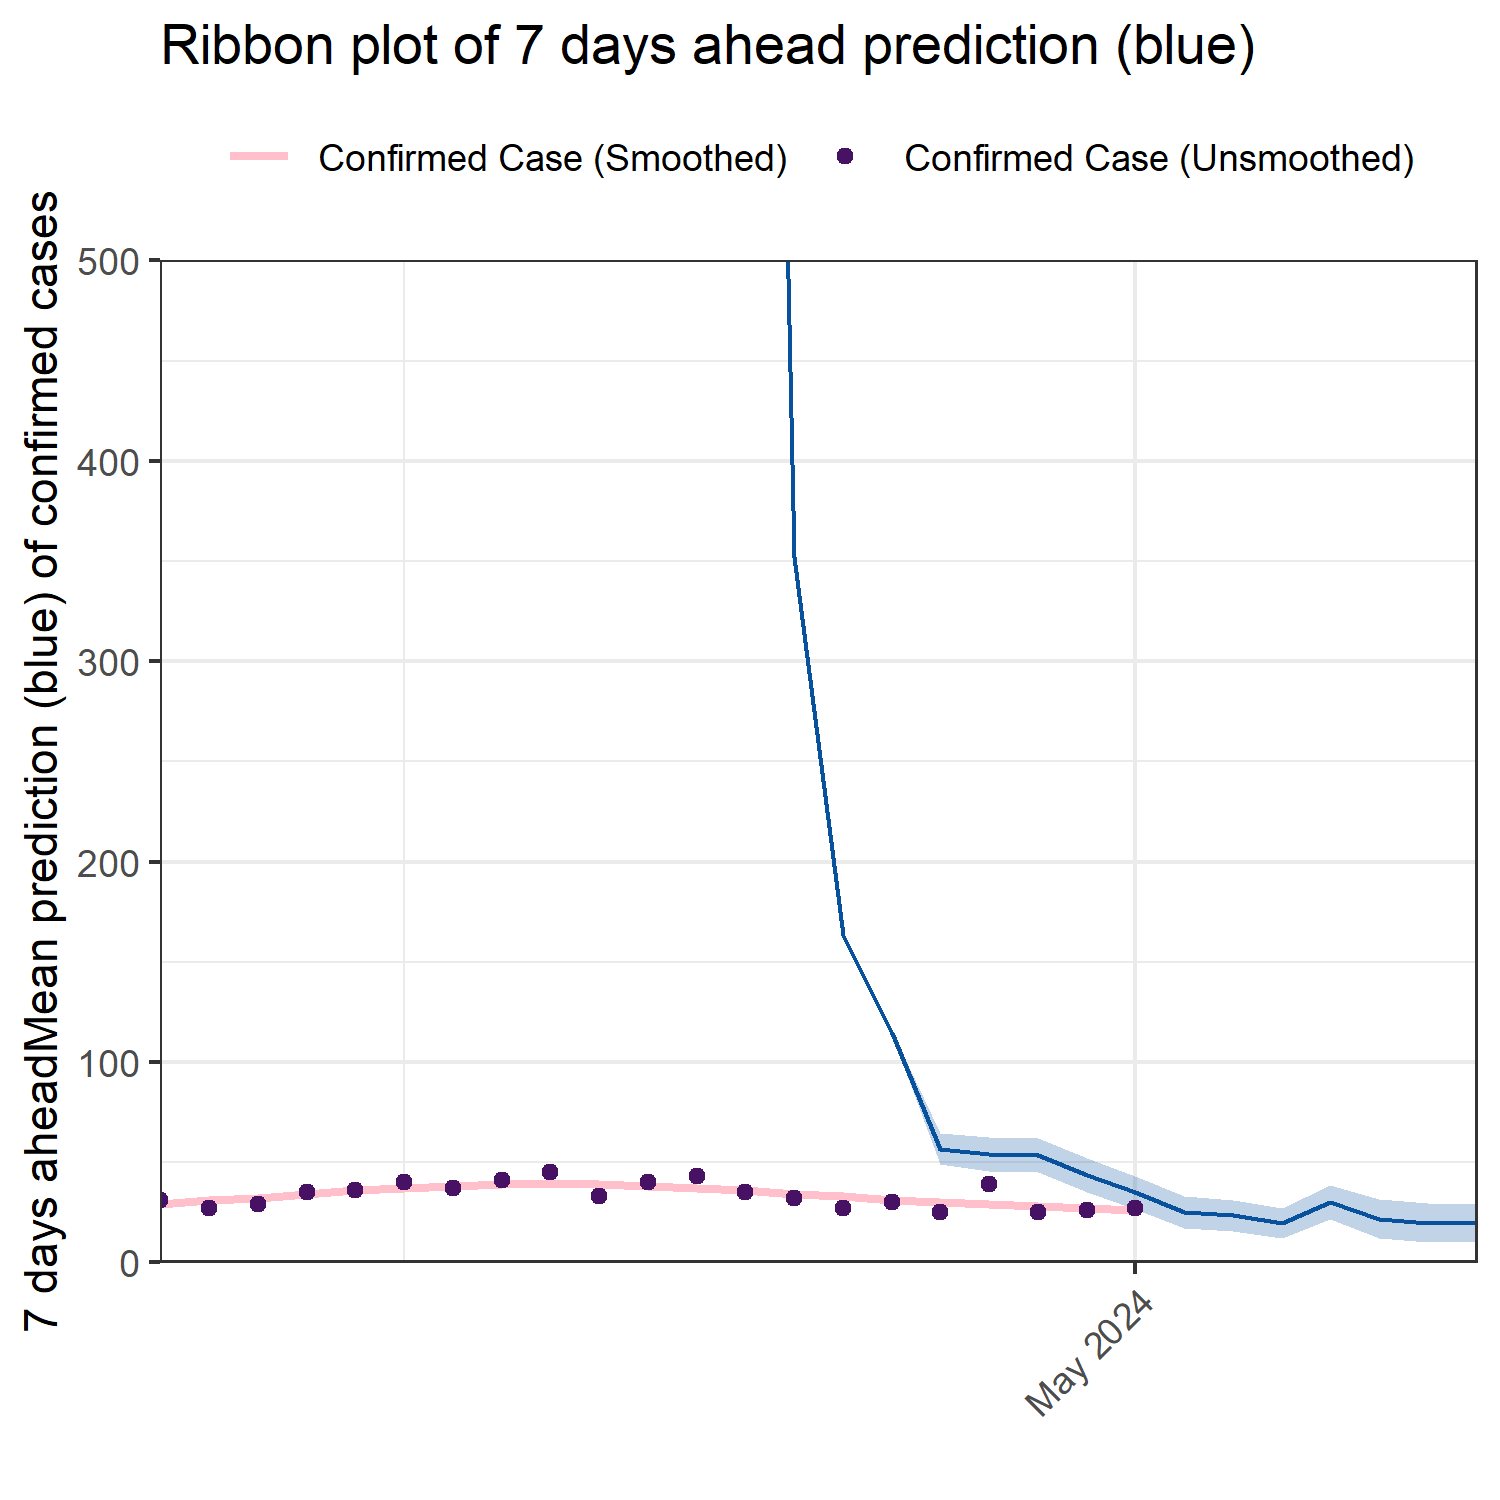
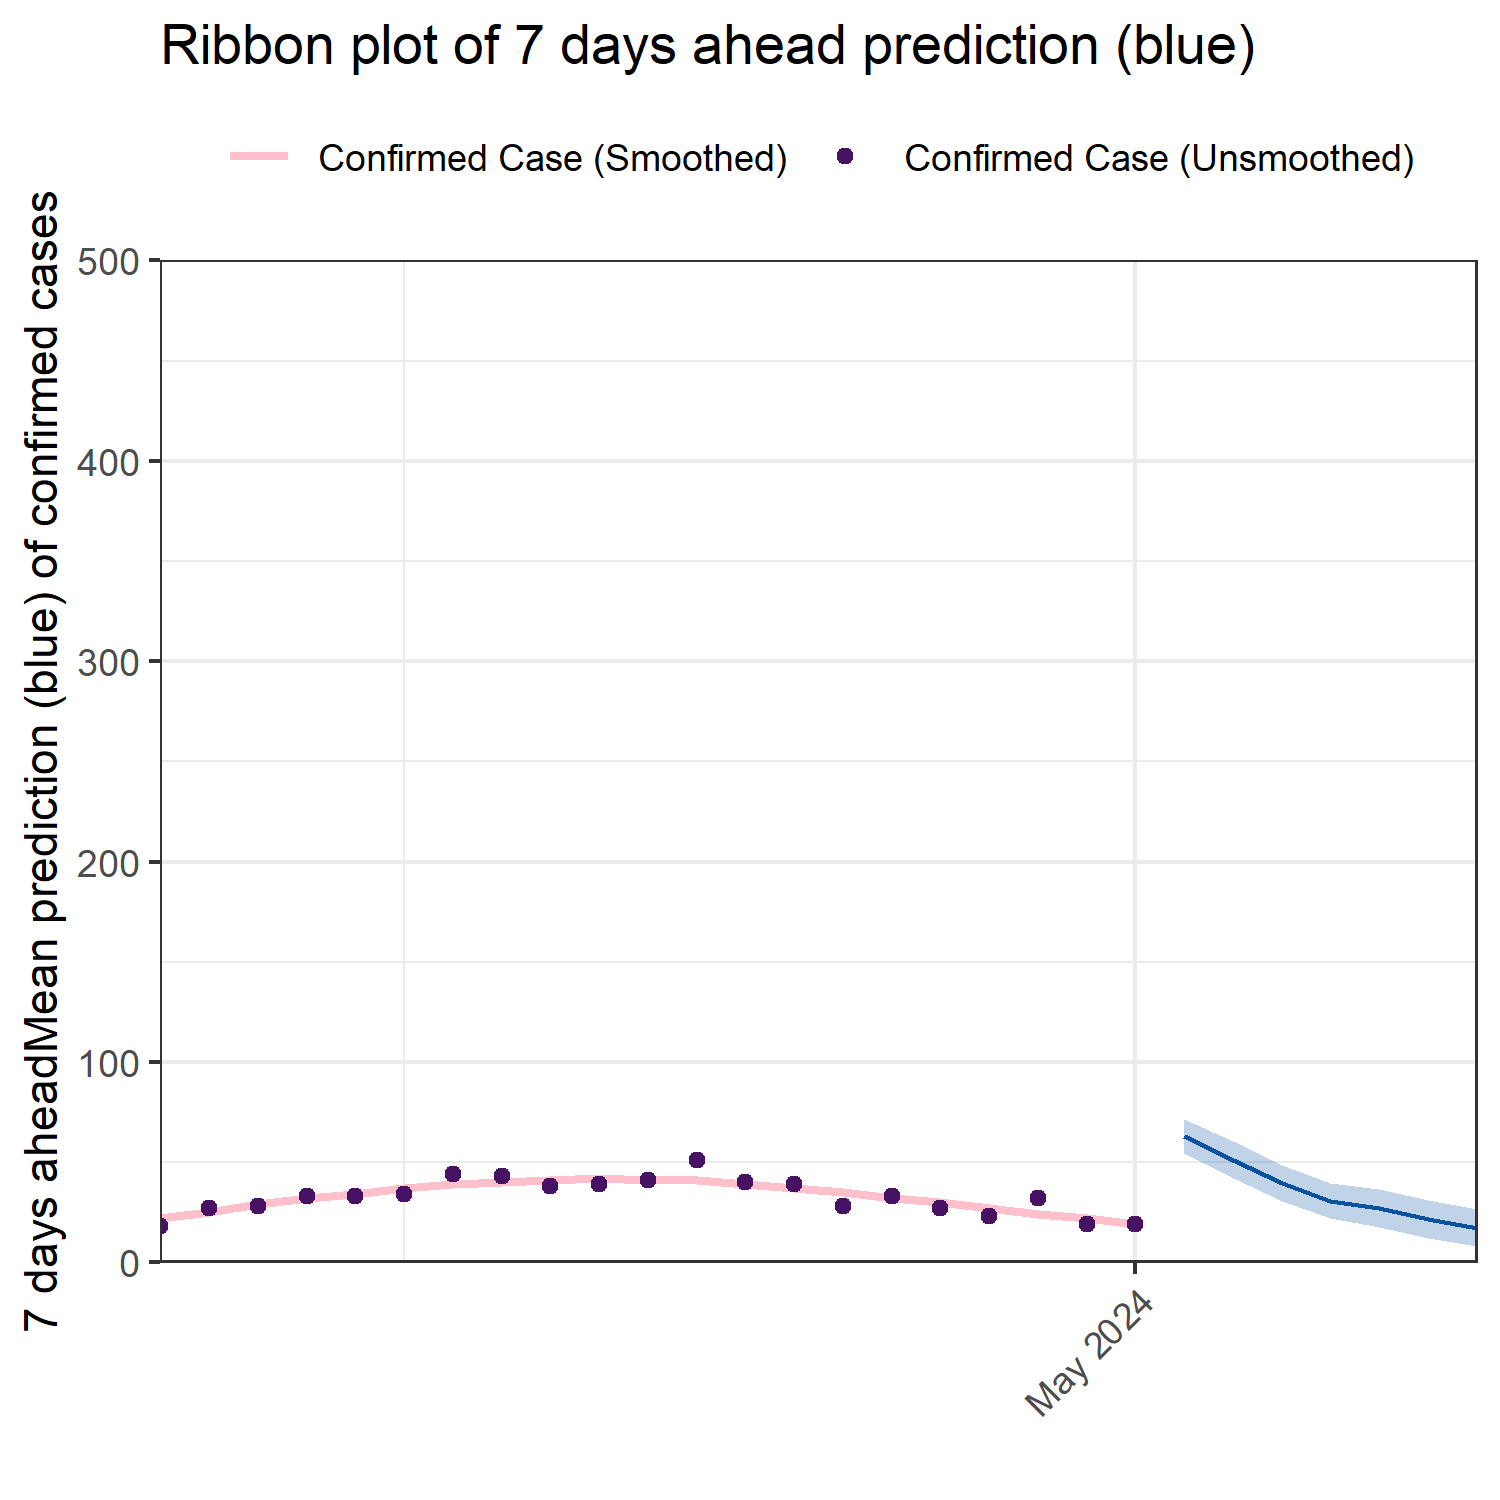
Add min_points and multipler option to forecast_time_period_epiestim I add an option to etiher input min_points or a multiplier to define the minimun number of data points (size of first window) to produce an accurate fit (multiplier*serial_interval).
Because serial interval defaults was defined in the inner functions, and the windows are defined in the outer function, I created an internal helper in utils.R defining all the default values. Then, I called this helper in both outer loop (that defines min_points and windows) and inner loop (that fits data).

Readme.md passed devtools::build_readme()

Fixes #38

diff --git a/README.md b/README.md
@@ -44,11 +44,11 @@ Influenza-A.
 
 ``` r
 library(ViroReportR)
-#> ================================================
-#> Welcome to ViroReportR! 
-#> Please run `pkgdown::build_site(lazy = TRUE)` in your console 
-#> to access documentation on the package website 
-#> ================================================
+#> 
+#> ── ViroReportR ─────────────────────────────────────────────────────────────────
+#> Please run `pkgdown::build_site(lazy = TRUE)` in your console
+#> to access documentation on the package website
+#> ────────────────────────────────────────────────────────────────────────────────
 ```
 
 We will use the simulated data for Influenza A, which is included with
@@ -71,12 +71,12 @@ head(formatted_data)
 #> # A tibble: 6 × 2
 #>   date       confirm
 #>   <date>       <dbl>
-#> 1 2024-04-01      13
-#> 2 2024-04-02       4
-#> 3 2024-04-03      10
-#> 4 2024-04-04       4
-#> 5 2024-04-05      12
-#> 6 2024-04-06      10
+#> 1 2024-04-01      12
+#> 2 2024-04-02       7
+#> 3 2024-04-03      11
+#> 4 2024-04-04      13
+#> 5 2024-04-05      19
+#> 6 2024-04-06      15
 ```
 
 ## Model fitting and forecasting over sliding windows
@@ -121,39 +121,19 @@ the same arguments as the `plot_validation` function above:
 summary(time_period_result_daily, pred_horizon_str = "7 days ahead")
 #> `mutate_if()` ignored the following grouping variables:
 #> • Column `date`
-#> Warning in summary.forecast_time_period(time_period_result_daily,
-#> pred_horizon_str = "7 days ahead"): Prediction percentile intervals do not
-#> cover some data-points in validation fits. Some forecasts may not be reliable
 #> $individual_quantiles
-#> # A tibble: 13 × 6
-#> # Groups:   date [13]
-#>    date       coverage                       `Confirmed cases` `Predicted cases`
-#>    <date>     <chr>                                      <dbl>             <dbl>
-#>  1 2024-04-19 Outside 95 percentile interval                45      341872241110
-#>  2 2024-04-20 Outside 95 percentile interval                33          21325901
-#>  3 2024-04-21 Outside 95 percentile interval                40            600558
-#>  4 2024-04-22 Outside 95 percentile interval                43              9278
-#>  5 2024-04-23 Outside 95 percentile interval                35              1477
-#>  6 2024-04-24 Outside 95 percentile interval                32               350
-#>  7 2024-04-25 Outside 95 percentile interval                27               163
-#>  8 2024-04-26 Outside 95 percentile interval                30               114
-#>  9 2024-04-27 Outside 95 percentile interval                25                56
-#> 10 2024-04-28 Outside 95 percentile interval                39                54
-#> 11 2024-04-29 Outside 95 percentile interval                25                53
-#> 12 2024-04-30 Outside 95 percentile interval                26                44
-#> 13 2024-05-01 95 percentile interval                        27                35
-#> # ℹ 2 more variables: `50 percentile interval bounds` <glue>,
-#> #   `95 percentile interval bounds` <glue>
+#> # A tibble: 0 × 6
+#> # Groups:   date [0]
+#> # ℹ 6 variables: date <date>, coverage <chr>, Confirmed cases <dbl>,
+#> #   Predicted cases <dbl>, 50 percentile interval bounds <glue>,
+#> #   95 percentile interval bounds <glue>
 #> 
 #> $quantile_summary
-#> # A tibble: 2 × 3
-#>   coverage                       counts proportion
-#>   <fct>                           <int>      <dbl>
-#> 1 95 percentile interval              1       7.69
-#> 2 Outside 95 percentile interval     12      92.3 
+#> # A tibble: 0 × 3
+#> # ℹ 3 variables: coverage <fct>, counts <int>, proportion <lgl>
 #> 
 #> $time_weighted_mspe
-#> [1] 268186651037
+#> [1] NaN
 ```
 
 Finally, the `ViroReportR` package can conveniently generate an
